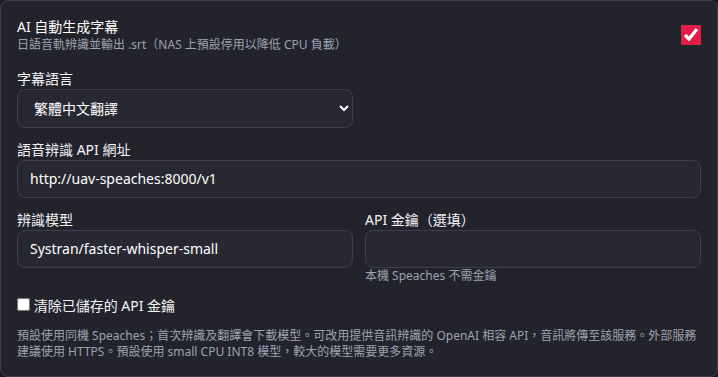
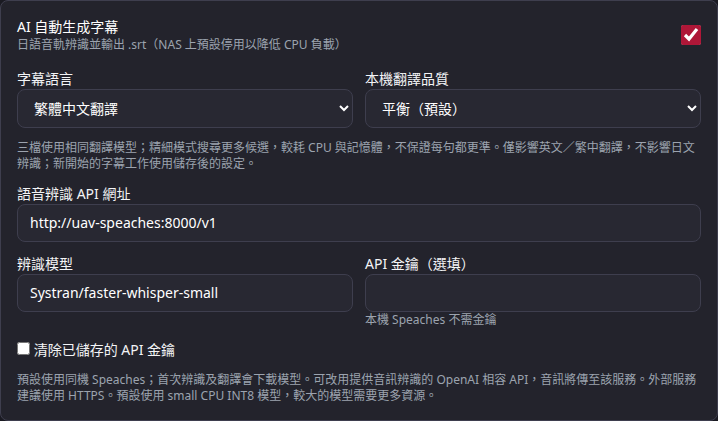
docs: show deployed translation quality and regenerate controls

diff --git a/docs/web-ui.md b/docs/web-ui.md
@@ -25,13 +25,15 @@ Web 下載完成後可呼叫同機 Speaches 辨識日文，再以本機翻譯模
 small 模型使用 CPU INT8 辨識，但實際速度與日文辨識品質取決於 CPU、音訊及其他服務負載。
 改用較大的模型時，須同時確認 Speaches 的記憶體限制與主機可用資源；預設限制不保證能執行所有模型。
 
-「本機翻譯品質」可選快速、平衡或精細，預設平衡，沿用原本的解碼方式。
+「本機翻譯品質」可選快速、平衡或精細，預設平衡。
 三檔使用相同翻譯模型，分別搜尋 1、4、8 個候選；精細模式較耗 CPU、記憶體與時間，不保證每句都更準。
 此設定只影響本機英文與繁中翻譯，不影響日文語音辨識，也不調整外部翻譯 API。
 儲存後，新開始的字幕工作採用新品質；執行中的工作維持啟動時的設定。
 完成的翻譯任務可按「重新產生字幕」套用新品質，沿用既有日文字幕與 MP4。
 切換品質會區分翻譯快取，並更新應用程式產生的舊翻譯；使用者修改過或來源不明的字幕仍保留。
 NAS 下載後傳送模式仍不覆寫 NAS 上的同名字幕，須另行處理舊檔。
+
+![已完成的翻譯任務可重新產生字幕，影片資訊已遮蔽](assets/web-subtitle-regenerate.png)
 
 外接服務在同一區塊設定「語音辨識 API 網址」、「辨識模型」及選填的「API 金鑰」。
 網址填入以 `/v1` 結尾的 base URL，服務須提供 OpenAI 相容的 `/audio/transcriptions`，並回傳附時間戳的 `verbose_json`。
